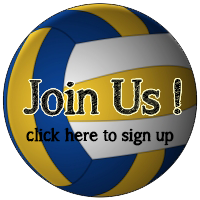
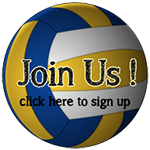
upload4

diff --git a/signup.html b/signup.html
@@ -10,8 +10,8 @@
 <script src="SpryAssets/SpryMenuBar.js" type="text/javascript"></script>
 </head>
 <body>
-<div id="banner"><img src="images/banner1.png"/></div>
-<div id="ball"><a href="signup.html"><img src="images/ball.png" width="150" height="150" /></a></div>
+<div id="banner"><img src="images/banner1.png" alt="Diggers Beach Volleyball"/></div>
+<div id="ball"><a href="signup.html"><img src="images/ball.png" alt="Join Us!"/></a></div>
 <div id="content">
 <ul id="MenuBar3" class="MenuBarHorizontal">
   <li><a href="index.html#">Home</a></li>
@@ -23,23 +23,23 @@
 </ul>
 <p>&nbsp;</p>
 <!-- InstanceBeginEditable name="EditRegion1" -->
-<div id="signup">
+
+<form id="signup" name="signup" method="post" action="">
 <h1>Contact Person Information </h1>
-<form>
-First Name : <input name="firstName" type="text" /><br />
-Last Name : <input name="lastName" type="text" /><br />
-E-mail : <input name="email" type="text" /><br />
-Competition day :<br />
-<input type="radio" name="day" value="monday">Monday<br>
-<input type="radio" name="day" value="tuesday">Tuesday<br>
-<input type="radio" name="day" value="wednesday">Wednesday<br>
-<input type="radio" name="day" value="thursday">Thursday<br>
-<input type="radio" name="day" value="friday">Friday<br>
-<input type="radio" name="day" value="saturday">Saturday<br>
-<input name="agree" type="checkbox" value="" />I have read and agree with the playing guidelines<br />
-<input name="submit" type="submit" />
+First Name : <input name="firstName" type="text" /><br /><br>
+Last Name : <input name="lastName" type="text" /><br /><br>
+&nbsp &nbsp &nbsp &nbsp E-mail : <input name="email" type="text" /><br /><br>
+Competition day : <input type="radio" name="monday" value="day">Monday<br>
+&nbsp &nbsp &nbsp &nbsp &nbsp &nbsp &nbsp &nbsp &nbsp &nbsp &nbsp &nbsp &nbsp &nbsp <input type="radio" name="tuesday" value="day">Tuesday<br>
+&nbsp &nbsp &nbsp &nbsp &nbsp &nbsp &nbsp &nbsp &nbsp &nbsp &nbsp &nbsp &nbsp &nbsp <input type="radio" name="wednesday" value="day">Wednesday<br>
+&nbsp &nbsp &nbsp &nbsp &nbsp &nbsp &nbsp &nbsp &nbsp &nbsp &nbsp &nbsp &nbsp &nbsp <input type="radio" name="thursday" value="day">Thursday<br>
+&nbsp &nbsp &nbsp &nbsp &nbsp &nbsp &nbsp &nbsp &nbsp &nbsp &nbsp &nbsp &nbsp &nbsp <input type="radio" name="friday" value="day">Friday<br>
+&nbsp &nbsp &nbsp &nbsp &nbsp &nbsp &nbsp &nbsp &nbsp &nbsp &nbsp &nbsp &nbsp &nbsp <input type="radio" name="saturday" value="day">Saturday<br>
+<br />
+<input name="agree" type="checkbox" value="agree" />I have read and agree with the playing guidelines<br /><br>
+&nbsp &nbsp &nbsp &nbsp  &nbsp &nbsp &nbsp &nbsp &nbsp &nbsp &nbsp &nbsp &nbsp &nbsp &nbsp &nbsp &nbsp &nbsp &nbsp &nbsp <input name="submit" type="submit" value="Submit" />
+<input name="Reset" type="reset" value="Reset" />
 </form> 
-</div>
 <div id="guidelines">
 <h1>Playing Guidelines</h1>
 <ol>

diff --git a/volleyball.html b/volleyball.html
@@ -10,8 +10,8 @@
 <script src="SpryAssets/SpryMenuBar.js" type="text/javascript"></script>
 </head>
 <body>
-<div id="banner"><img src="images/banner1.png"/></div>
-<div id="ball"><a href="signup.html"><img src="images/ball.png" width="150" height="150" /></a></div>
+<div id="banner"><img src="images/banner1.png" alt="Diggers Beach Volleyball"/></div>
+<div id="ball"><a href="signup.html"><img src="images/ball.png" alt="Join Us!"/></a></div>
 <div id="content">
 <ul id="MenuBar3" class="MenuBarHorizontal">
   <li><a href="index.html#">Home</a></li>
@@ -24,17 +24,17 @@
 <p>&nbsp;</p>
 <!-- InstanceBeginEditable name="EditRegion1" -->
 <br /><br /><br />
-<h1>Volleyball</h1>
+<h1>What is Volleyball?</h1>
 <p  class="par1">Volleyball is a team sport played by two teams on a playing court divided by a net. 
 <br><br />
   The sport originated in the United States, and is now just achieving the type of popularity in the U.S. that it has received on a global basis, where it ranks behind only soccer among participation sports. 
   <br /><br />
   The object of the game is for each team to send the ball regularly over the net to ground it on the opponent's court, and to prevent the ball from being grounded on its own court.
 <br><br />
-The rally continues until the ball touches the  ground/floor, goes &quot;out&quot; or a team fails to return it to the  opponent's court or commits a fault. The team winning a rally scores a point  (Rally Point System). The best of three or best of five games will win  matches
+The rally continues until the ball touches the  ground/floor, goes &quot;out&quot; or a team fails to return it to the  opponent's court or commits a fault. The team winning a rally scores a point (Rally Point System). The best of three or best of five games will win  matches
 <br><br />
 <i>Reproduced from <a href="http://www.volleyball.org/whatis.html">www.volleyball.org</a> </i></p>
-    <img src="images/beachNet.jpg" 	width=270px/><img src="images/girls_game.jpg"	width=270px/>
+    <img src="images/beachNet.jpg" alt="Beach Net"/><img src="images/receiving.jpg" alt="Receiving"/>
 <br /><br />
 <p class="par2">Volleyball is a sport that is safe, fun and does not require extreme fitness. 
 <br />

diff --git a/css/globalstyle.css b/css/globalstyle.css
@@ -16,11 +16,6 @@ h1 {
 	color: #555;
 	text-align: center;
 }
-h2 {
-	font-family: "Comic Sans MS", cursive;
-	font-size: 24px;
-	color: #CF6;
-}
 table{
 	text-align: center;
 	width: 100%;
@@ -48,18 +43,6 @@ td{
 	background-image: url(../images/bg-pink.png);
 	background-repeat: repeat;
 	padding: 20px;
-}
-.par3 {
-	font-family: "Trebuchet MS", Arial, Helvetica, sans-serif;
-	font-size: 18px;
-	color: #306;
-	background-image: url(../images/bg-green.png);
-	background-repeat: repeat;
-	padding: 20px;
-	width: 95%;
-	clear: both;
-	float: none;
-	left: 80%;
 }
 #ball {
 	position: fixed;
@@ -103,6 +86,7 @@ td{
 	text-align: center;
 	left: 12.5%;
 	right: 12.5%;
+	font-family: Arial, Helvetica, sans-serif;
 }
 #contact {
 	font-family: Verdana, Geneva, sans-serif;
@@ -116,12 +100,24 @@ td{
 	font-size: 18px;
 	color: #930;
 	background-image: url(../images/bg-orange.png);
-	padding: 20px;
+	padding: 30px;
+	float: left;
+	width: 60%;
 }
 #announcement ul li{
 	display: list-item;
 	text-align: left;
 	list-style-type: circle;
+}
+#links {
+	font-family: "Trebuchet MS", Arial, Helvetica, sans-serif;
+	font-size: 18px;
+	color: #306;
+	background-image: url(../images/bg-green.png);
+	background-repeat: repeat;
+	padding: 20px;
+	width: 95%;
+	text-align: center;
 }
 #signup {
 	font-family: Arial, Helvetica, sans-serif;
@@ -148,5 +144,3 @@ a:link {
 a:hover {
 	color: #399;
 }
-
-

diff --git a/index.html b/index.html
@@ -10,8 +10,8 @@
 <script src="SpryAssets/SpryMenuBar.js" type="text/javascript"></script>
 </head>
 <body>
-<div id="banner"><img src="images/banner1.png"/></div>
-<div id="ball"><a href="signup.html"><img src="images/ball.png" width="150" height="150" /></a></div>
+<div id="banner"><img src="images/banner1.png" alt="Diggers Beach Volleyball"/></div>
+<div id="ball"><a href="signup.html"><img src="images/ball.png" alt="Join Us!"/></a></div>
 <div id="content">
 <ul id="MenuBar3" class="MenuBarHorizontal">
   <li><a href="index.html#">Home</a></li>
@@ -23,14 +23,12 @@
 </ul>
 <p>&nbsp;</p>
 <!-- InstanceBeginEditable name="EditRegion1" -->
-<marquee bahavior="scroll">
-<h2>Welcome to Diggers Beach Volleyball's website</h2>
+<marquee behavior="alternate" scrollamount="5">
+<img src="images/spike.jpg"/>
+<img src="images/girls_game-large.jpg" />
 </marquee>
-<marquee behavior="scroll">
-<img src="images/spike.jpg" height="375"/>
-<img src="images/receiving.jpg" height="375" />
-<img src="images/girls_game.jpg" height="375"/>
-</marquee>
+
+
 
 <!-- InstanceEndEditable -->
 <p id="footer">&copy Diggers Beach Volleyball, 2015</p>

diff --git a/links.html b/links.html
@@ -10,8 +10,8 @@
 <script src="SpryAssets/SpryMenuBar.js" type="text/javascript"></script>
 </head>
 <body>
-<div id="banner"><img src="images/banner1.png"/></div>
-<div id="ball"><a href="signup.html"><img src="images/ball.png" width="150" height="150" /></a></div>
+<div id="banner"><img src="images/banner1.png" alt="Diggers Beach Volleyball"/></div>
+<div id="ball"><a href="signup.html"><img src="images/ball.png" alt="Join Us!"/></a></div>
 <div id="content">
 <ul id="MenuBar3" class="MenuBarHorizontal">
   <li><a href="index.html#">Home</a></li>
@@ -23,8 +23,9 @@
 </ul>
 <p>&nbsp;</p>
 <!-- InstanceBeginEditable name="EditRegion1" -->
-<br /><br /><br /><h1>Links</h1>
-<div class="par3">
+<br /><br /><br /><h1>External Links</h1>
+<div id="links">
+Check out other volleyball associations!
 <ul>
    <li><a href="http://www.volleyball.org/">Volleyball worldwide</a></li>
    <li><a href="http://www.fivb.ch/en/beachvolleyball/">FIVB International Federation of Volleyball, Beach</a></li>

diff --git a/announcements.html b/announcements.html
@@ -10,8 +10,8 @@
 <script src="SpryAssets/SpryMenuBar.js" type="text/javascript"></script>
 </head>
 <body>
-<div id="banner"><img src="images/banner1.png"/></div>
-<div id="ball"><a href="signup.html"><img src="images/ball.png" width="150" height="150" /></a></div>
+<div id="banner"><img src="images/banner1.png" alt="Diggers Beach Volleyball"/></div>
+<div id="ball"><a href="signup.html"><img src="images/ball.png" alt="Join Us!"/></a></div>
 <div id="content">
 <ul id="MenuBar3" class="MenuBarHorizontal">
   <li><a href="index.html#">Home</a></li>
@@ -33,6 +33,8 @@
 	<li>There’s also a Tournament: nominations close April 14 for this 4-a-side weekend competition - held on April 18/19.</li>
 </ul>
 </div>
+<img src="images/girls_game.jpg">
+
 <!-- InstanceEndEditable -->
 <p id="footer">&copy Diggers Beach Volleyball, 2015</p>
 </div>

diff --git a/leaderboard.html b/leaderboard.html
@@ -10,8 +10,8 @@
 <script src="SpryAssets/SpryMenuBar.js" type="text/javascript"></script>
 </head>
 <body>
-<div id="banner"><img src="images/banner1.png"/></div>
-<div id="ball"><a href="signup.html"><img src="images/ball.png" width="150" height="150" /></a></div>
+<div id="banner"><img src="images/banner1.png" alt="Diggers Beach Volleyball"/></div>
+<div id="ball"><a href="signup.html"><img src="images/ball.png" alt="Join Us!"/></a></div>
 <div id="content">
 <ul id="MenuBar3" class="MenuBarHorizontal">
   <li><a href="index.html#">Home</a></li>
@@ -24,7 +24,7 @@
 <p>&nbsp;</p>
 <!-- InstanceBeginEditable name="EditRegion1" -->
 <br /><br /><Br />
-<h1>Leaderboard</h1>
+<h1>Current Tournament's Leaderboard</h1>
 <table>
 <tr>
 	<td>Pos</td>

diff --git a/contact.html b/contact.html
@@ -10,8 +10,8 @@
 <script src="SpryAssets/SpryMenuBar.js" type="text/javascript"></script>
 </head>
 <body>
-<div id="banner"><img src="images/banner1.png"/></div>
-<div id="ball"><a href="signup.html"><img src="images/ball.png" width="150" height="150" /></a></div>
+<div id="banner"><img src="images/banner1.png" alt="Diggers Beach Volleyball"/></div>
+<div id="ball"><a href="signup.html"><img src="images/ball.png" alt="Join Us!"/></a></div>
 <div id="content">
 <ul id="MenuBar3" class="MenuBarHorizontal">
   <li><a href="index.html#">Home</a></li>
